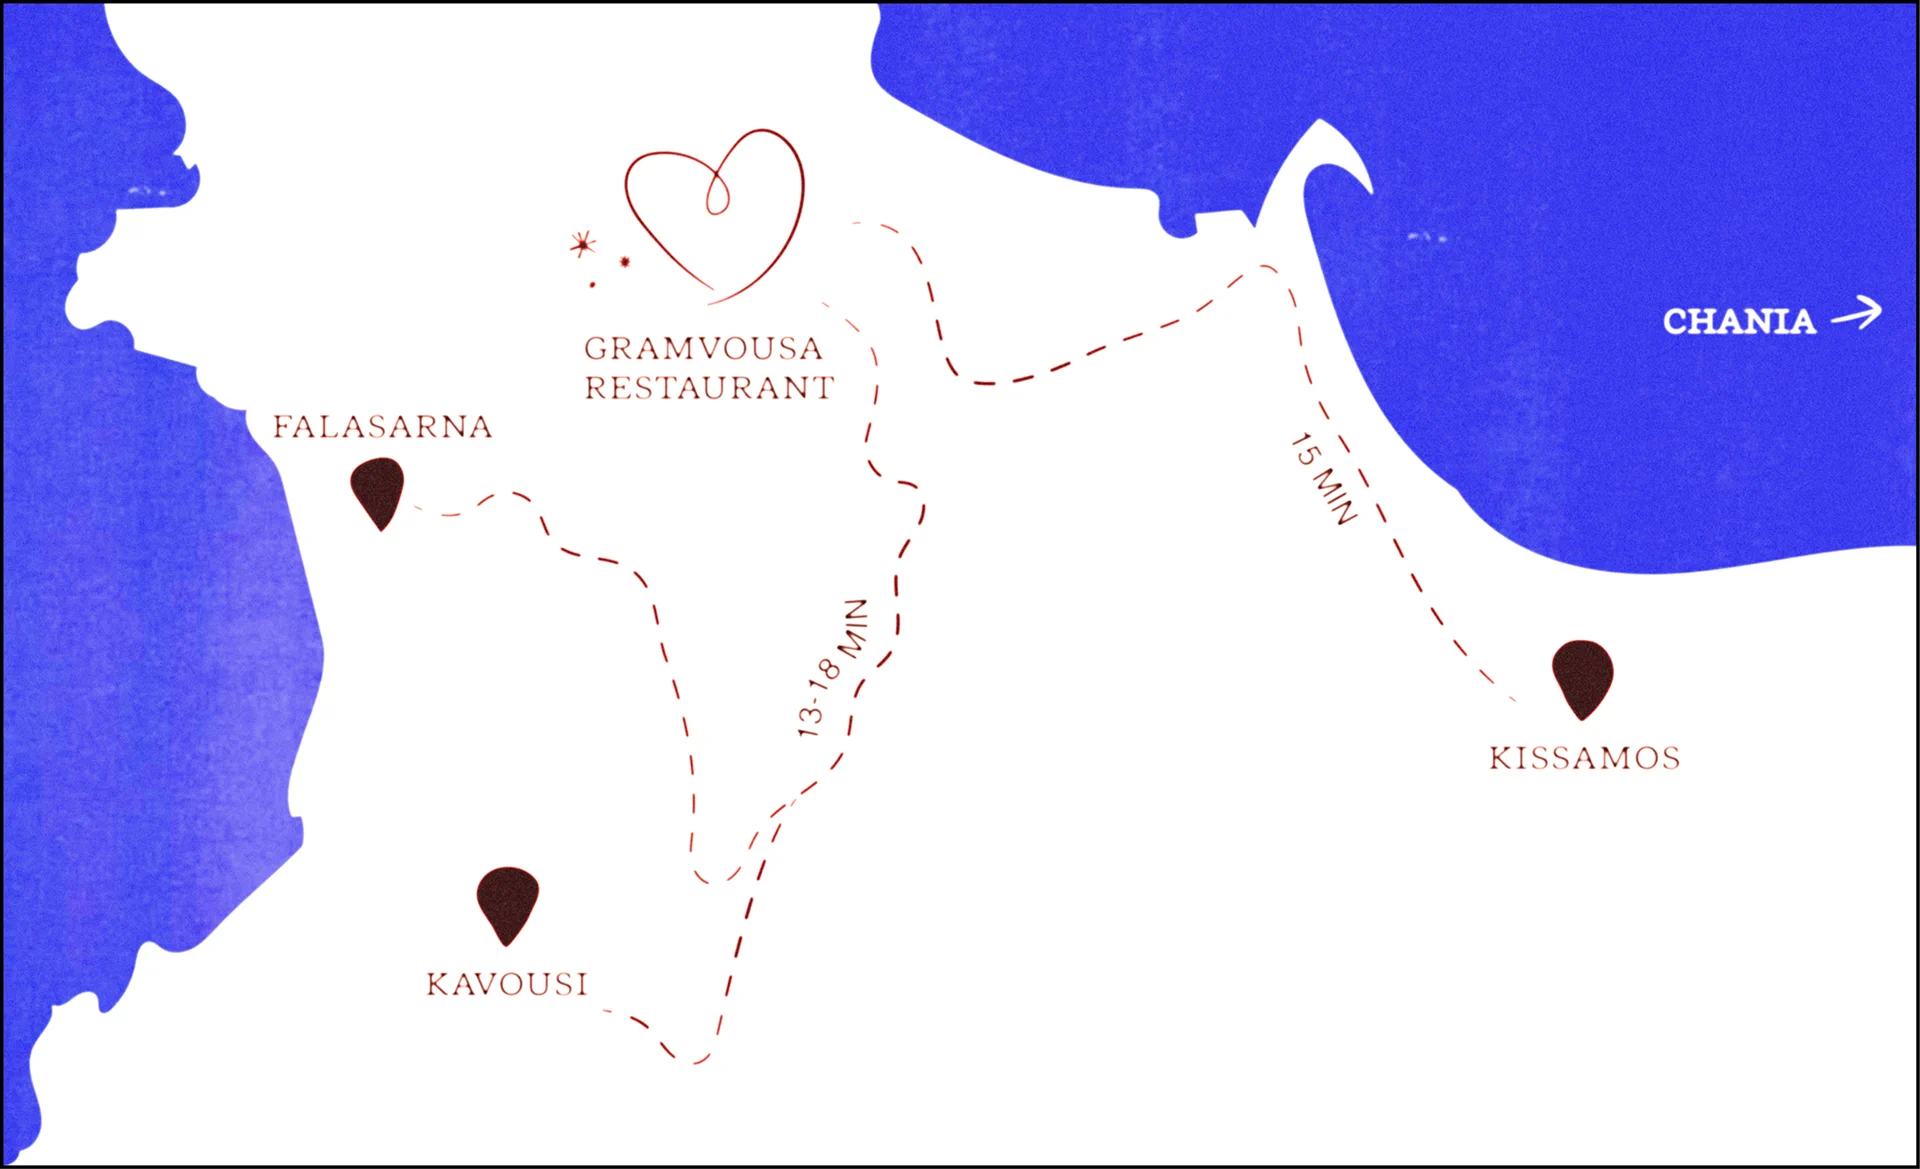
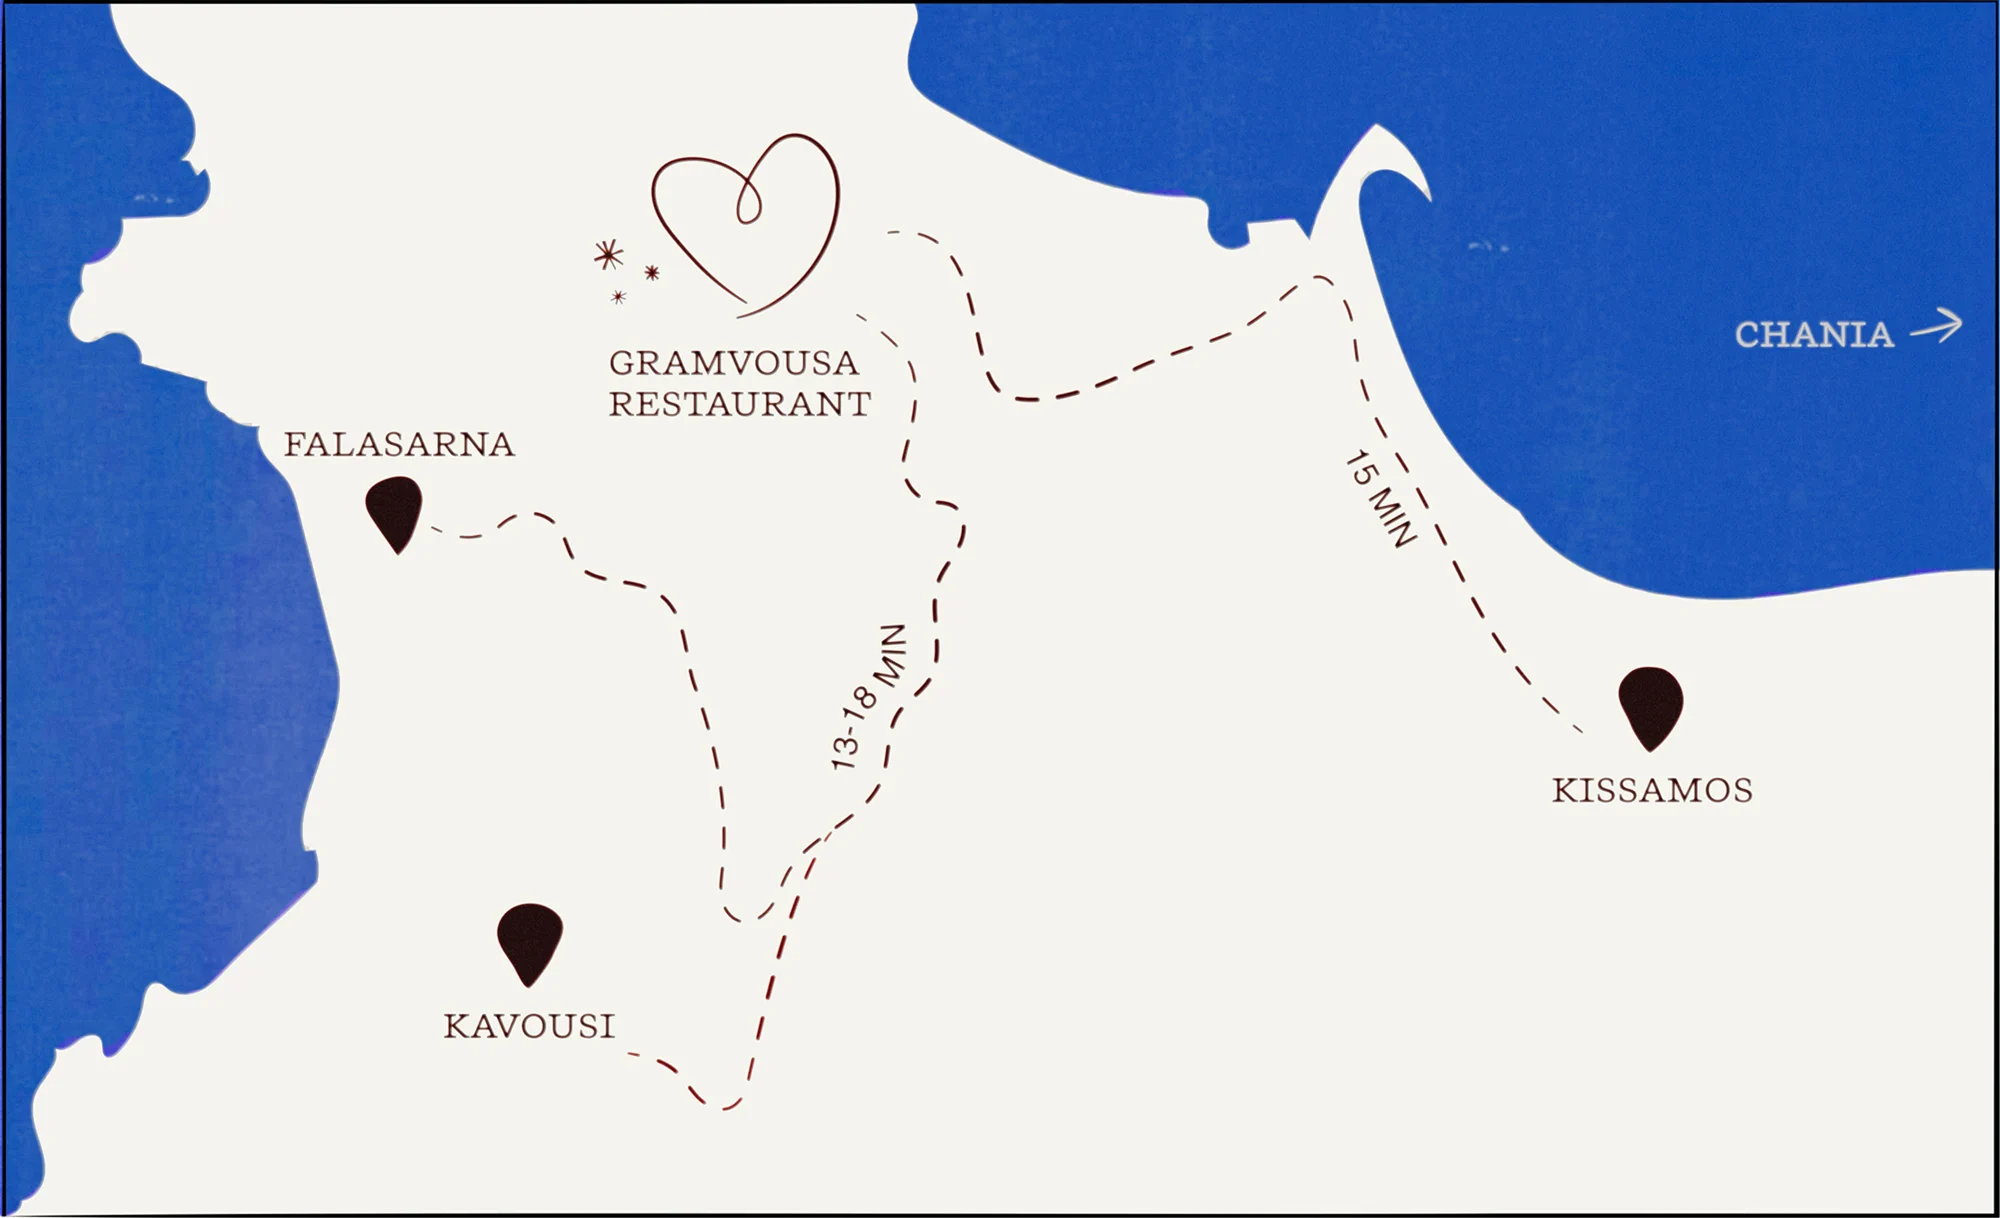
feat: mobile adjust

diff --git a/app/travel-and-stay/page.tsx b/app/travel-and-stay/page.tsx
@@ -12,23 +12,35 @@ export default function TravelAndStay() {
   return (
     <main>
       <div className="wrapper">
-        <h1 className="hero-text">Travel & Stay</h1>
+        <TextBlock hero offset heading="Travel & Stay" />
 
-        <div className="flex justify-center mt-[116px]">
-          <Image
-            src="/vectors/wedding-map-crete.webp"
-            alt="Travel and Stay"
-            width={1114}
-            height={380}
-          />
+        <div className="flex justify-center mt-[54px] md:mt-[116px]">
+          <div className="hidden md:block">
+            <Image
+              src="/vectors/wedding-map-crete.webp"
+              alt="Travel and Stay"
+              width={1114}
+              height={380}
+            />
+          </div>
+
+          <div className="md:hidden">
+            <Image
+              src="/vectors/wedding-map-crete-mobile.webp"
+              alt="Travel and Stay"
+              width={800}
+              height={456}
+            />
+          </div>
         </div>
 
-        <div className="mt-[236px] mb-[137px]">
+        <div className="md:mt-[236px] mt-4 mb-[32px] md:mb-[55px]">
           <TextBlock
             heading="How to get there"
             body={[
-              "Many guests will likely start in Athens, and we hope you can spend a day or two exploring the city before heading to Crete. From Athens, both Chania and Heraklion are about a one-hour flight, but you may also find seasonal direct flights from other European cities if you’re looking to work in a fun stopover. If you prefer a slower, more scenic route, you can also take the overnight ferry from Piraeus, Athens’ port, to Chania.",
-              "For the wedding weekend, Chania is the easiest option. It’s about a 50-minute drive from Kissamos, where we hope most guests will stay. Heraklion is another option, but it’s about a 2.5-hour drive from the Kissamos area.",
+              "Our wedding weekend will be based in Kissamos, on the west end of Crete. Many guests will likely start in Athens, and we hope you can spend a day or two exploring the city before heading to Crete. From Athens, both Chania and Heraklion are about a one-hour flight, but you may also find seasonal direct flights from other European cities if you’re looking to work in a fun stopover. If you prefer a slower, more scenic route, you can also take the overnight ferry from Piraeus, Athens’ port, to Chania.",
+
+              "For the wedding weekend, Chania is the easiest option. It’s about a 50-minute drive from Kissamos, where we hope most guests will stay. Heraklion is another option, but it’s about a 2.5-hour drive from the Kissamos area. ",
             ]}
           />
         </div>
@@ -42,11 +54,14 @@ export default function TravelAndStay() {
           />
         </div>
 
-        <div className="mt-[96px] mb-[137px]">
+        <div className="mt-[74px] md:mt-[96px] mb-[74px] md:mb-[96px]">
           <TextBlock
             heading="Where to Stay"
             body={[
-              "We recommend staying in or around Kissamos, where we hope most guests will be based and where wedding-day shuttles will depart. We’ll be staying nearby with our families in Kounoupitsa, just south of town. There are plenty of villas and Airbnbs in the area, as well as our room block at Kissamos Hotel. There’s also a hotel, Kaliviani Traditional Hotel, right near the restaurant if you prefer to be walking distance. ",
+              "We recommend staying in or around Kissamos, where we hope most guests will be based and where wedding-day shuttles will depart. We’ll be staying nearby with our families in Kounoupitsa, just south of town.",
+
+              "There are plenty of villas and Airbnbs in the area, as well as our room block at Kissamos Hotel. There’s also a hotel, Kaliviani Traditional Hotel, right near the restaurant if you prefer to be walking distance.",
+
               "Falasarna and Kavousi are also great options if you plan to arrange your own transportation.  Falasarna is closer to the venue and known for its incredible sunsets, while Kavousi offers a quieter village stay nearby. ",
             ]}
           />
@@ -61,7 +76,7 @@ export default function TravelAndStay() {
         />
       </div>
 
-      <div className="mt-[96px] mb-[137px] wrapper">
+      <div className="mt-[57px] md:mt-[78px] mb-[52px] md:mb-[137px] wrapper">
         <TextBlock
           heading="Transportation"
           body={[

diff --git a/app/page.tsx b/app/page.tsx
@@ -15,7 +15,7 @@ export default function Home() {
           playsInline
           width={1000}
           height={562}
-          className="md:hidden w-full h-auto py-[58px] md:py-[132px]"
+          className="md:hidden w-full h-auto pt-[48px] pb-[58px]"
         >
           <source src="/video/hero-animation-mobile.mp4" type="video/mp4" />
         </video>
@@ -27,7 +27,7 @@ export default function Home() {
           playsInline
           width={2500}
           height={1406}
-          className="hidden md:block w-full h-auto py-[58px] md:py-[132px]"
+          className="hidden md:block w-full h-auto py-[132px]"
         >
           <source src="/video/hero-animation.mp4" type="video/mp4" />
         </video>
@@ -69,14 +69,14 @@ export default function Home() {
         />
       </div>
 
-      <div className="flex flex-col md:flex-row flex-col-reverse gap-[57px] mb-[74px] md:mb-[150px]">
+      <div className="flex md:flex-row flex-col-reverse gap-[57px] mb-[74px] md:mb-[150px]">
         <div className="w-full md:w-[461px]">
           <Image
             src="/images/imessage.webp"
             alt="Courtney and Ajax at Wissahickon Park in Philadelphia"
             width={461}
             height={622}
-            className="object-contain mx-auto pr-12"
+            className="object-contain mx-auto pr-16 md:pr-12"
           />
         </div>
 
@@ -99,7 +99,7 @@ export default function Home() {
         </div>
       </div>
 
-      <div className="mt-[96px] mb-[48px] md:mt-[236px] md:mb-[137px]">
+      <div className="mt-[74px] mb-[48px] md:mt-[236px] md:mb-[137px]">
         <TextBlock
           body={[
             "Over the next eight years, we traveled from Mexico to Scotland to Greece, weathered a pandemic, adopted a cat, made three moves, including one across state lines, welcomed seven nieces and nephews with one more on the way, celebrated eight Christmases and four Passovers, and entered our thirties together.",
@@ -121,7 +121,7 @@ export default function Home() {
         />
       </div>
 
-      <div className="mb-[96px] md:mb-[150px]">
+      <div className="mb-[126px] md:mb-[150px]">
         <ImageGrid
           topImage={{ src: "/images/gram-3.webp", alt: "Placeholder" }}
           bottomLeftImage={{
@@ -135,7 +135,7 @@ export default function Home() {
         />
       </div>
 
-      <div className="flex items-center">
+      <div className="flex flex-col-reverse md:flex-row items-center gap-[64px] md:gap-12 mb-[152px]">
         <p className="text-body max-w-[432px]">
           We cannot wait to share this beautiful place, this incredible food,
           and plenty of wine with all of you. Cheers!{" "}

diff --git a/components/ExploreGrid.tsx b/components/ExploreGrid.tsx
@@ -37,18 +37,14 @@ interface ExploreGridProps {
 }
 
 export const ExploreGrid = ({ items }: ExploreGridProps) => {
-  const [activeTags, setActiveTags] = useState<Category[]>([]);
+  const [activeTag, setActiveTag] = useState<Category | null>(null);
 
   const toggleTag = (tag: Category) => {
-    setActiveTags((prev) =>
-      prev.includes(tag) ? prev.filter((t) => t !== tag) : [...prev, tag],
-    );
+    setActiveTag((prev) => (prev === tag ? null : tag));
   };
 
   const visibleItems =
-    activeTags.length === 0
-      ? items
-      : items.filter((item) => activeTags.includes(item.tag));
+    activeTag === null ? items : items.filter((item) => item.tag === activeTag);
 
   return (
     <div className="px-[10px] md:px-12">
@@ -59,9 +55,9 @@ export const ExploreGrid = ({ items }: ExploreGridProps) => {
             <button
               type="button"
               onClick={() => toggleTag(category)}
-              aria-pressed={activeTags.includes(category)}
+              aria-pressed={activeTag === category}
               className={`cursor-pointer uppercase ${
-                activeTags.includes(category) ? "underline" : ""
+                activeTag === category ? "underline" : ""
               }`}
             >
               {category}
@@ -92,7 +88,7 @@ const ExploreCard = ({ title, tag, body, image }: ExploreCardData) => {
 
       <div className="flex flex-col gap-4 mt-4">
         {body.map((paragraph, index) => (
-          <p key={index} className="text-body text-justify">
+          <p key={index} className="text-body-sm text-justify">
             {typeof paragraph === "string"
               ? paragraph
               : paragraph.map((segment, segmentIndex) => {

diff --git a/app/explore-crete/page.tsx b/app/explore-crete/page.tsx
@@ -244,9 +244,11 @@ export default function ExploreCrete() {
   return (
     <main className="flex flex-col">
       <div className="flex flex-col wrapper">
-        <h1 className="hero-text">Explore Crete</h1>
         <div>
           <TextBlock
+            offset
+            hero
+            heading="Explore Crete"
             body={[
               "WE CAME TO CRETE looking for rest and found much more than we expected. From the moment we landed, our nervous systems softened, our pace slowed, and Crete began to feel like exactly where we were meant to be. We fell in love with the balance of it all — good food and untamed landscapes, restful days and unexpected adventures, awe-inspiring gorges, secret caves and the scent of herbs warmed by the sun.",
               "Most of all, we fell in love with the SPIRIT OF CRETE and the warmth of its people. It means so much to return to a place that feels so right and to experience it with the people we love most. We hope this journey offers each of you a sense of DISCOVERY, BEAUTY, AND CONNECTION — and memories that stay with us long after we leave.",

diff --git a/components/ImageGrid.tsx b/components/ImageGrid.tsx
@@ -12,8 +12,8 @@ export const ImageGrid = ({
   bottomRightImage,
 }: ImageGridProps) => {
   return (
-    <div className="grid grid-cols-1 md:grid-cols-2 gap-4">
-      <div className="relative w-full aspect-[5/3] md:col-span-2">
+    <div className="grid grid-cols-2 gap-4">
+      <div className="relative w-full aspect-[1112/677] col-span-2">
         <Image
           src={topImage.src}
           alt={topImage.alt}
@@ -22,7 +22,7 @@ export const ImageGrid = ({
         />
       </div>
 
-      <div className="relative w-full aspect-[7/8]">
+      <div className="relative w-full aspect-[547/677]">
         <Image
           src={bottomLeftImage.src}
           alt={bottomLeftImage.alt}
@@ -31,7 +31,7 @@ export const ImageGrid = ({
         />
       </div>
 
-      <div className="relative w-full aspect-[7/8]">
+      <div className="relative w-full aspect-[547/677]">
         <Image
           src={bottomRightImage.src}
           alt={bottomRightImage.alt}

diff --git a/components/TextBlock.tsx b/components/TextBlock.tsx
@@ -12,18 +12,21 @@ export const TextBlock = ({
   hero = false,
 }: TextBlockProps) => {
   return (
-    <div className="flex flex-col gap-6 lg:gap-12">
-      <p
-        className={`
+    <div className="flex flex-col gap-6 lg:gap-8">
+      {heading && (
+        <p
+          className={`
           ${
             offset
               ? "text-box-header pl-[12%] md:pl-[19.5%]"
               : "text-box-header-sm"
           }
-            ${hero ? "mt-[148px]" : ""}`}
-      >
-        {heading}
-      </p>
+            ${hero ? "mt-[56px] md:mt-[148px]" : ""}`}
+        >
+          {heading}
+        </p>
+      )}
+
       {body &&
         body.map((paragraph, index) => (
           <p key={index} className="text-body text-pretty">

diff --git a/app/globals.css b/app/globals.css
@@ -25,7 +25,11 @@ nav a {
 }
 
 .text-body {
-  @apply font-helvetica-neue text-[18px] md:text-[24px] leading-[120%] md:leading-[140%] tracking-[0%];
+  @apply font-helvetica-neue text-[18px] md:text-[24px] leading-[120%] md:leading-[140%] tracking-[0%] text-justify;
+}
+
+.text-body-sm {
+  @apply font-helvetica-neue text-[16px] md:text-[18px] leading-[120%] md:leading-[140%] tracking-[0%] text-justify;
 }
 
 .text-box-header {
@@ -33,7 +37,7 @@ nav a {
 }
 
 .text-box-header-sm {
-  @apply font-arial-narrow text-[18px] md:text-[28px] uppercase tracking-[9%] mb-4;
+  @apply font-arial-narrow text-[18px] md:text-[28px] uppercase tracking-[9%];
 }
 
 .hero-text {

diff --git a/app/faqs/page.tsx b/app/faqs/page.tsx
@@ -1,5 +1,6 @@
 import type { Metadata } from "next";
 import { FAQ } from "@/components/FAQ";
+import { TextBlock } from "@/components/TextBlock";
 
 export const metadata: Metadata = {
   title: "FAQs",
@@ -71,7 +72,7 @@ export default function FAQPage() {
   return (
     <main className="bg-[#0655BB] text-white">
       <div className="wrapper">
-        <h1 className="hero-text text-white">FAQs</h1>
+        <TextBlock offset hero heading="FAQs" />
 
         <div className="mt-[116px] mb-[137px] text-white">
           <FAQ items={faqItems} />

diff --git a/app/itinerary/page.tsx b/app/itinerary/page.tsx
@@ -10,9 +10,11 @@ export const metadata: Metadata = {
 export default function Itinerary() {
   return (
     <main className="wrapper flex flex-col flex-1">
-      <h1 className="hero-text">Itinerary</h1>
       <div>
         <TextBlock
+          offset
+          hero
+          heading="Itinerary"
           body={[
             "We’re still putting the finishing touches on the wedding weekend, but we recommend arriving by Wednesday so you have some time to settle in, acclimate, and enjoy Crete before the festivities begin.",
 

diff --git a/components/Footer.tsx b/components/Footer.tsx
@@ -14,7 +14,7 @@ export default function Footer() {
         alt="Please join us for our wedding celebration at Gramvousa Restaurant, May 29th, with our family and friends, in Crete, Greece."
         width={119}
         height={166}
-        className={`${isFaq ? "invert" : ""} mx-auto`}
+        className={`${isFaq ? "invert" : ""} mx-auto max-w-[72px] md:max-w-none`}
       />
     </div>
   );

diff --git a/components/Navbar.tsx b/components/Navbar.tsx
@@ -101,7 +101,7 @@ export const Navbar = () => {
             initial="hidden"
             animate="visible"
             exit="hidden"
-            className="absolute inset-0 bg-black h-screen z-10 px-5"
+            className="absolute inset-0 bg-[#0655BB] h-screen z-10 px-5"
           >
             <div className="w-full h-[51px] flex">
               <button
